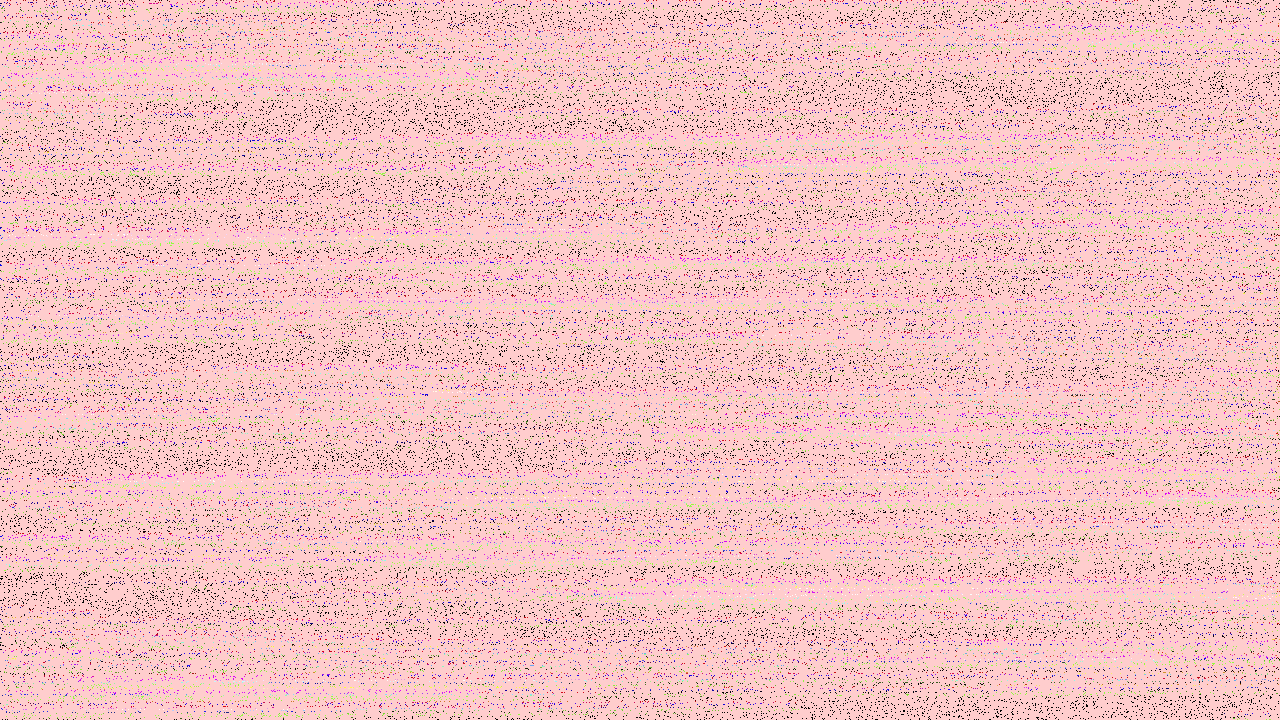
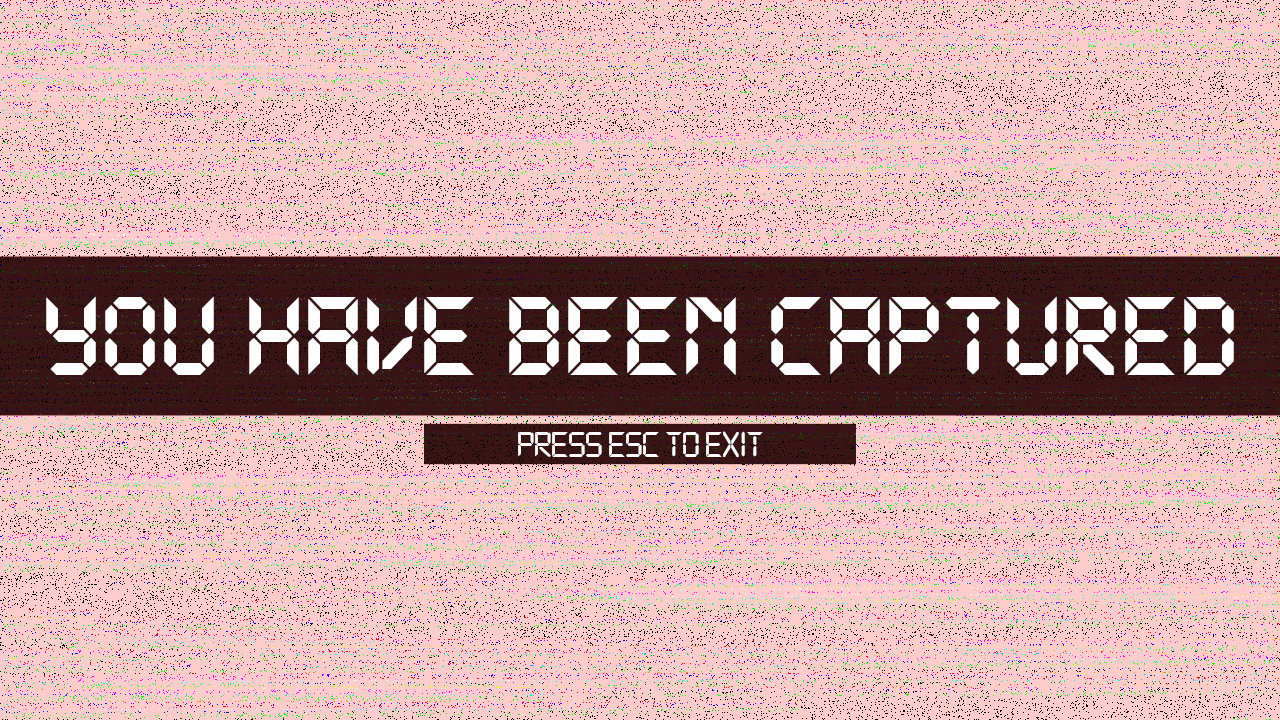
Detalles visuales de pantallas finales
Falta hacer parar el tiempo

Changed region(s): [[0.0, 0.3361, 1.0, 0.6722]]

diff --git a/src/main.cpp b/src/main.cpp
@@ -37,13 +37,9 @@ int main()
 
     sf::Texture fail_background_texture{};
     sf::Sprite fail_background_sprite{};
-    sf::Text fail_text{};
 
     sf::Texture win_background_texture{};
     sf::Sprite win_background_sprite{};
-    sf::Text win_text{};
-
-    sf::Text exit_text{};
 
     User user{};
 
@@ -63,8 +59,8 @@ int main()
         initialize_coins(user.get_yuca_coins(), font, coin_text, circle_coin_container, coin_texture);
         initialize_companies_and_network(companies, company_network);
         store.initialize_store_icon();
-        initialize_fail_background(fail_background_texture, fail_background_sprite, font, fail_text);
-        initialize_win_background(win_background_texture, win_background_sprite, font, win_text);
+        initialize_fail_background(fail_background_texture, fail_background_sprite);
+        initialize_win_background(win_background_texture, win_background_sprite);
     }
     catch (const std::runtime_error &error)
     {
@@ -89,7 +85,8 @@ int main()
 
     initialize_console_window(translucent_background, console, text_field);
 
-    sf::Time countdown_time{ sf::seconds(200.0f) };
+    float time_game{ 480.f };
+    sf::Time countdown_time{ sf::seconds(time_game) };
     sf::Clock countdown_clock{};
 
     Gameplay gameplay_status{};
@@ -99,7 +96,6 @@ int main()
     std::string command_required{};
 
     sf::Clock console_time{};
-    sf::Clock console_time_indicator{}; //para la barra de tiempo xd
 
     bool end_game{ false };
     bool click_flag{ false };
@@ -225,7 +221,9 @@ int main()
         window.draw(circle_coin_container);
         window.draw(coin_text);
 
-        if (click_flag && console_time.getElapsedTime().asSeconds() < 14.f && !store.is_store_open())
+        if (click_flag
+            && console_time.getElapsedTime().asSeconds() < gameplay_status.get_console_time_limit()
+            && !store.is_store_open())
         {
             popup_console_window(user_input, command_required, command_required_text, input_command_text,
             console_time, time_bar);
@@ -242,18 +240,16 @@ int main()
             clear_conditional_objects(extracted_words, click_flag, user_input, company_index);
         }
 
-        if (user.get_anonymity() == 0 || countdown_clock.getElapsedTime().asSeconds() >= 200.f)
+        if (user.get_anonymity() == 0 || countdown_clock.getElapsedTime().asSeconds() >= time_game)
         {
             end_game = true;
             window.draw(fail_background_sprite);
-            window.draw(fail_text);
             sf::Mouse::setPosition(sf::Vector2i{640, 360}, window);
         }
         else if (gameplay_status.get_company_counter() == 22)
         {
             end_game = true;
             window.draw(win_background_sprite);
-            window.draw(win_text);
             sf::Mouse::setPosition(sf::Vector2i{640, 360}, window);
         }
 

diff --git a/src/configuration.cpp b/src/configuration.cpp
@@ -208,9 +208,7 @@ void initialize_anonymity(int anonymity, sf::Sprite &anonymity_sprite, sf::Textu
 void initialize_fail_background
 (
     sf::Texture &fail_background_texture,
-    sf::Sprite &fail_background_sprite,
-    sf::Font &font,
-    sf::Text &fail_text
+    sf::Sprite &fail_background_sprite
 )
 {
     if (!fail_background_texture.loadFromFile(R"(assets\images\fail_background.png)"))
@@ -219,14 +217,6 @@ void initialize_fail_background
     }
 
     fail_background_sprite.setTexture( fail_background_texture );
-    fail_background_sprite.setScale(1.f, 1.f);
-    fail_background_sprite.setPosition(0.f, 0.f);
-
-    fail_text.setFont(font);
-    fail_text.setFillColor(sf::Color::Red);
-    fail_text.setCharacterSize(160);
-    fail_text.setString("Fuiste capturado");
-    fail_text.setPosition(640 - (fail_text.getGlobalBounds().width / 2), 360 - (fail_text.getGlobalBounds().height));
 }
 
 /**
@@ -235,9 +225,7 @@ void initialize_fail_background
 void initialize_win_background
 (
     sf::Texture &win_background_texture,
-    sf::Sprite &win_background_sprite,
-    sf::Font &font,
-    sf::Text &win_text
+    sf::Sprite &win_background_sprite
 )
 {
     if (!win_background_texture.loadFromFile(R"(assets\images\win_background.png)"))
@@ -246,12 +234,4 @@ void initialize_win_background
     }
 
     win_background_sprite.setTexture( win_background_texture );
-    win_background_sprite.setScale(1.f, 1.f);
-    win_background_sprite.setPosition(0.f, 0.f);
-
-    win_text.setFont(font);
-    win_text.setFillColor(sf::Color::White);
-    win_text.setCharacterSize(160);
-    win_text.setString("Ciberespacio\nconquistado");
-    win_text.setPosition(640 - (win_text.getGlobalBounds().width / 2), 435 - (win_text.getGlobalBounds().height));
 }

diff --git a/src/gui.cpp b/src/gui.cpp
@@ -78,32 +78,32 @@ void popup_console_window
     }
 
     float elapsed_time{console_time.getElapsedTime().asSeconds()};
-    if (elapsed_time < 3.5f)
+    if (elapsed_time < 4.f)
     {
         time_bar.setFillColor(sf::Color::Green);
         time_bar.setSize(sf::Vector2f{638.f, 7.f});
     }
-    else if (elapsed_time >= 3.5f && elapsed_time < 7.f)
+    else if (elapsed_time >= 4.f && elapsed_time < 7.5f)
     {
         time_bar.setFillColor(sf::Color::Yellow);
         time_bar.setSize(sf::Vector2f{478.f, 7.f});
     }
-    else if (elapsed_time >= 7.f && elapsed_time <= 10.5f)
+    else if (elapsed_time >= 7.5f && elapsed_time <= 9.f)
     {
         time_bar.setFillColor(sf::Color(255,131,0));
         time_bar.setSize(sf::Vector2f{319.f, 7.f});
     }
-    else if (elapsed_time >= 10.5f && elapsed_time < 12.f)
+    else if (elapsed_time >= 9.f && elapsed_time < 10.5f)
     {
         time_bar.setFillColor(sf::Color::Red);
         time_bar.setSize(sf::Vector2f{159.f, 7.f});
     }
-    else if (elapsed_time >= 12.f && elapsed_time < 13.5f)
+    else if (elapsed_time >= 10.5f && elapsed_time < 12.f)
     {
         time_bar.setFillColor(sf::Color::Red);
         time_bar.setSize(sf::Vector2f{40.f, 7.f});
     }
-    else if (elapsed_time >= 13.5f)
+    else if (elapsed_time >= 12.f)
     {
         time_bar.setFillColor(sf::Color::Red);
         time_bar.setSize(sf::Vector2f{6.f, 7.f});

diff --git a/include/configuration.hpp b/include/configuration.hpp
@@ -21,6 +21,8 @@ void initialize_console_text(sf::Font &font, sf::Text &words_text);
 void initialize_console_input_text(sf::Font &font, sf::Text &input_text);
 void initialize_words(std::string *array_words);
 void initialize_companies_and_network(TablaHash<Company*> &companies, GrafoSimple<Node*> &company_network);
+void initialize_win_background(sf::Texture &win_background_texture, sf::Sprite &win_background_sprite);
+void initialize_fail_background(sf::Texture &fail_background_texture, sf::Sprite &fail_background_sprite);
 
 void initialize_console_window
 (
@@ -36,20 +38,4 @@ void initialize_coins
     sf::Text &coin_text,
     sf::CircleShape &circle_coin_container,
     sf::Texture &coin_texture
-);
-
-void initialize_fail_background
-(
-    sf::Texture &fail_background_texture,
-    sf::Sprite &fail_background_sprite,
-    sf::Font &font,
-    sf::Text &fail_text
-);
-
-void initialize_win_background
-(
-    sf::Texture &win_background_texture,
-    sf::Sprite &win_background_sprite,
-    sf::Font &font,
-    sf::Text &win_text
 );

diff --git a/src/store.cpp b/src/store.cpp
@@ -250,6 +250,10 @@ void Store::draw_power_tree(sf::RenderWindow& window, const sf::Font& font, User
             {
                 node.setColor(sf::Color{ 255, 255, 255, 70 });
             }
+            else
+            {
+                node.setColor(sf::Color{ 255, 255, 255, 255 });
+            }
 
             if (product->get_price() == 10)
             {

diff --git a/src/actions.cpp b/src/actions.cpp
@@ -103,6 +103,11 @@ void user_succeeds_attack
             std::cout << "\nHAS HACKEADO EL PLANETA BRO, EPIC WIN!!!!111\n";
         }
 
+        if (gameplay_status.get_company_counter() == 3)
+        {
+            user.increase_indirect_hack_intensity(6);
+        }
+
         node->get_circle().setOutlineColor(sf::Color{ 0, 162, 232 });
 
         if (i > 0)

diff --git a/include/user.hpp b/include/user.hpp
@@ -4,8 +4,8 @@ class User
 {
     int anonymity{ 5 };
     int yuca_coins{ 0 };
-    int hack_intensity{ 100 };
-    int indirect_hack_intensity{ 25 };
+    int hack_intensity{ 10 };
+    int indirect_hack_intensity{ 10 };
     bool captured{ false };
 
 public:

diff --git a/include/gameplay.hpp b/include/gameplay.hpp
@@ -6,7 +6,7 @@ class Gameplay
     int quantity_words{ 9 };
     bool hard{ false };
     bool extreme{ false };
-    float console_time_limit{ 13.f };
+    float console_time_limit{ 12.f };
 
 public:
     Gameplay() = default;
